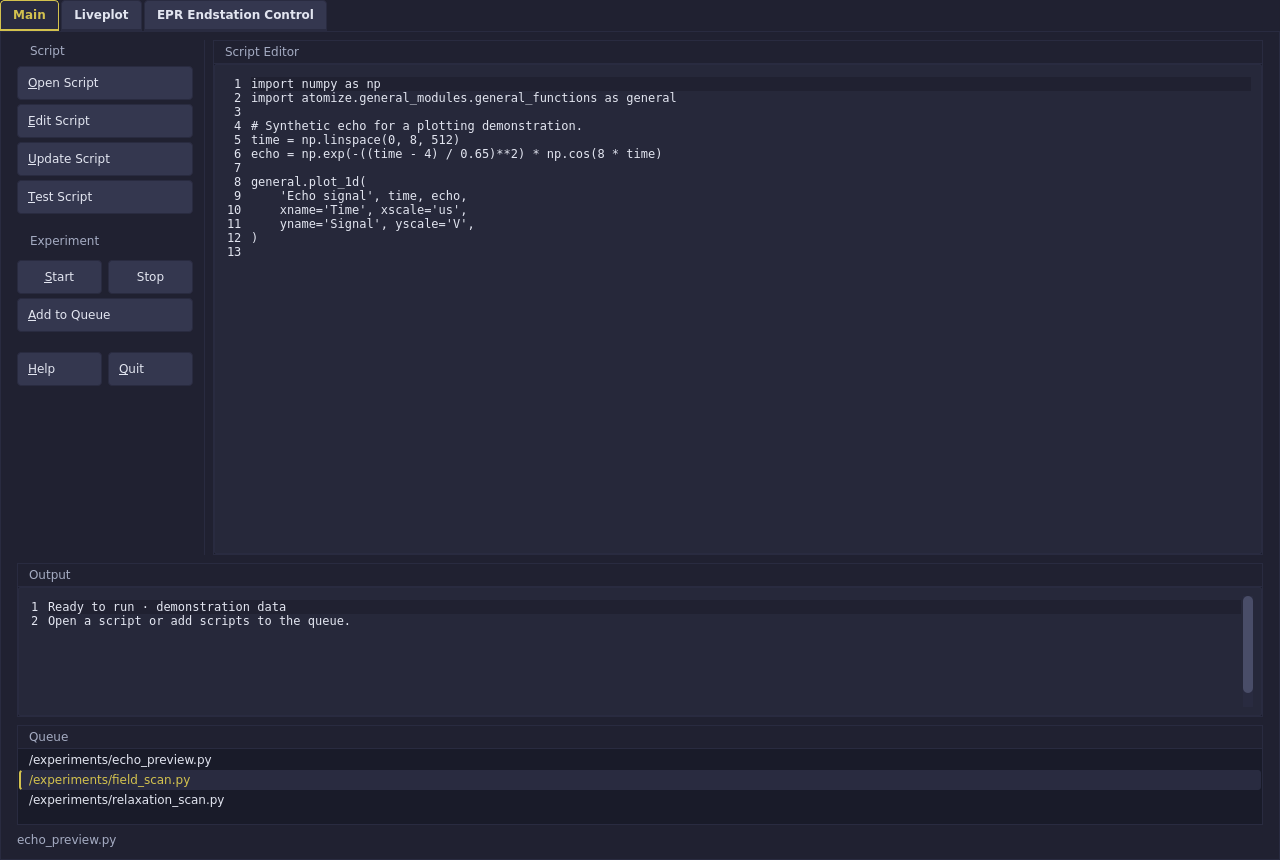
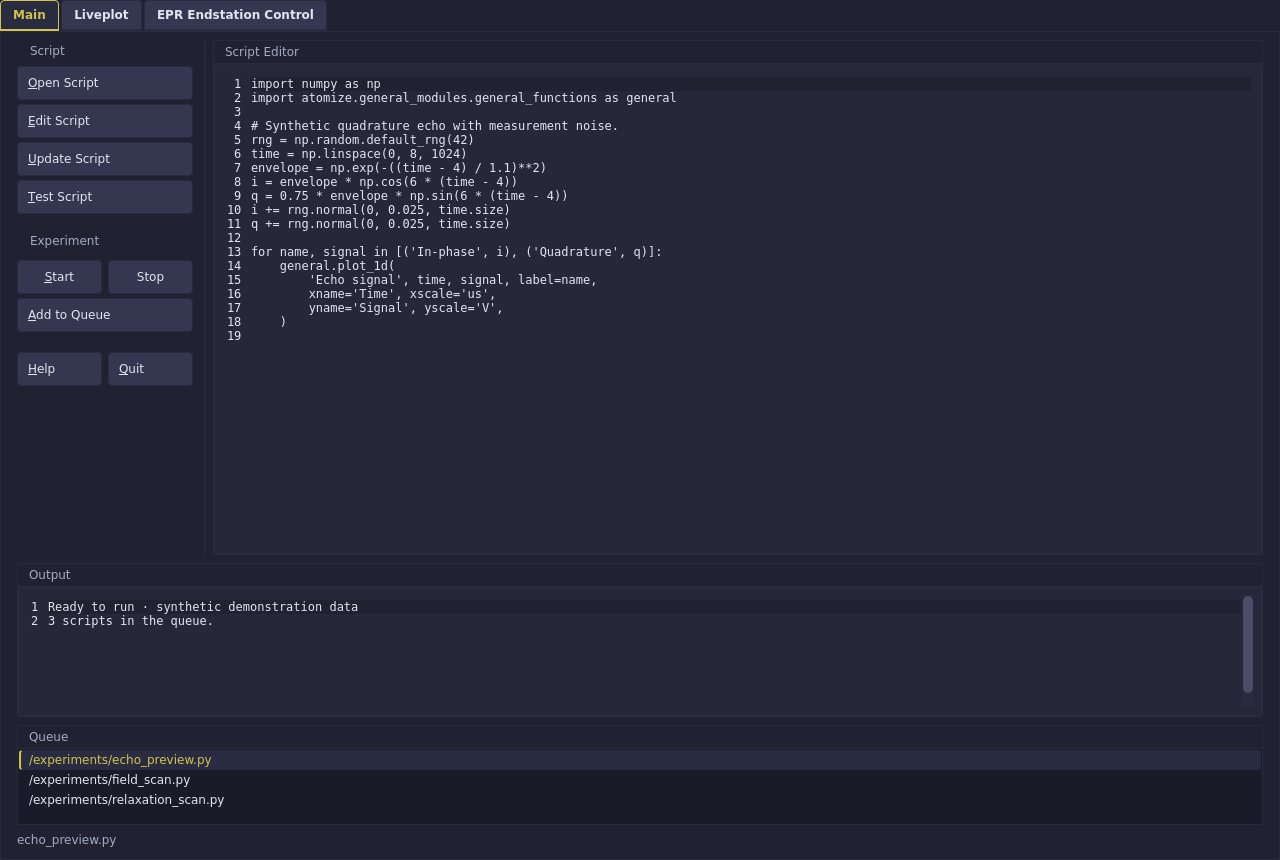
Refresh screenshots with noisy traces and separate 1D and 2D views

diff --git a/readme.md b/readme.md
@@ -254,5 +254,5 @@ The Insys device is available via ctypes. The original library can be found [her
 
 ## Screenshots
 ![Script editor and experiment queue](screenshots/screenshot.png)
-![Liveplot with synthetic demonstration data](screenshots/screenshot2.png)
-![EPR Endstation Control](screenshots/screenshot3.png)
+![Liveplot with two noisy 1D traces](screenshots/screenshot2.png)
+![Liveplot with a noisy 2D echo map](screenshots/screenshot3.png)
